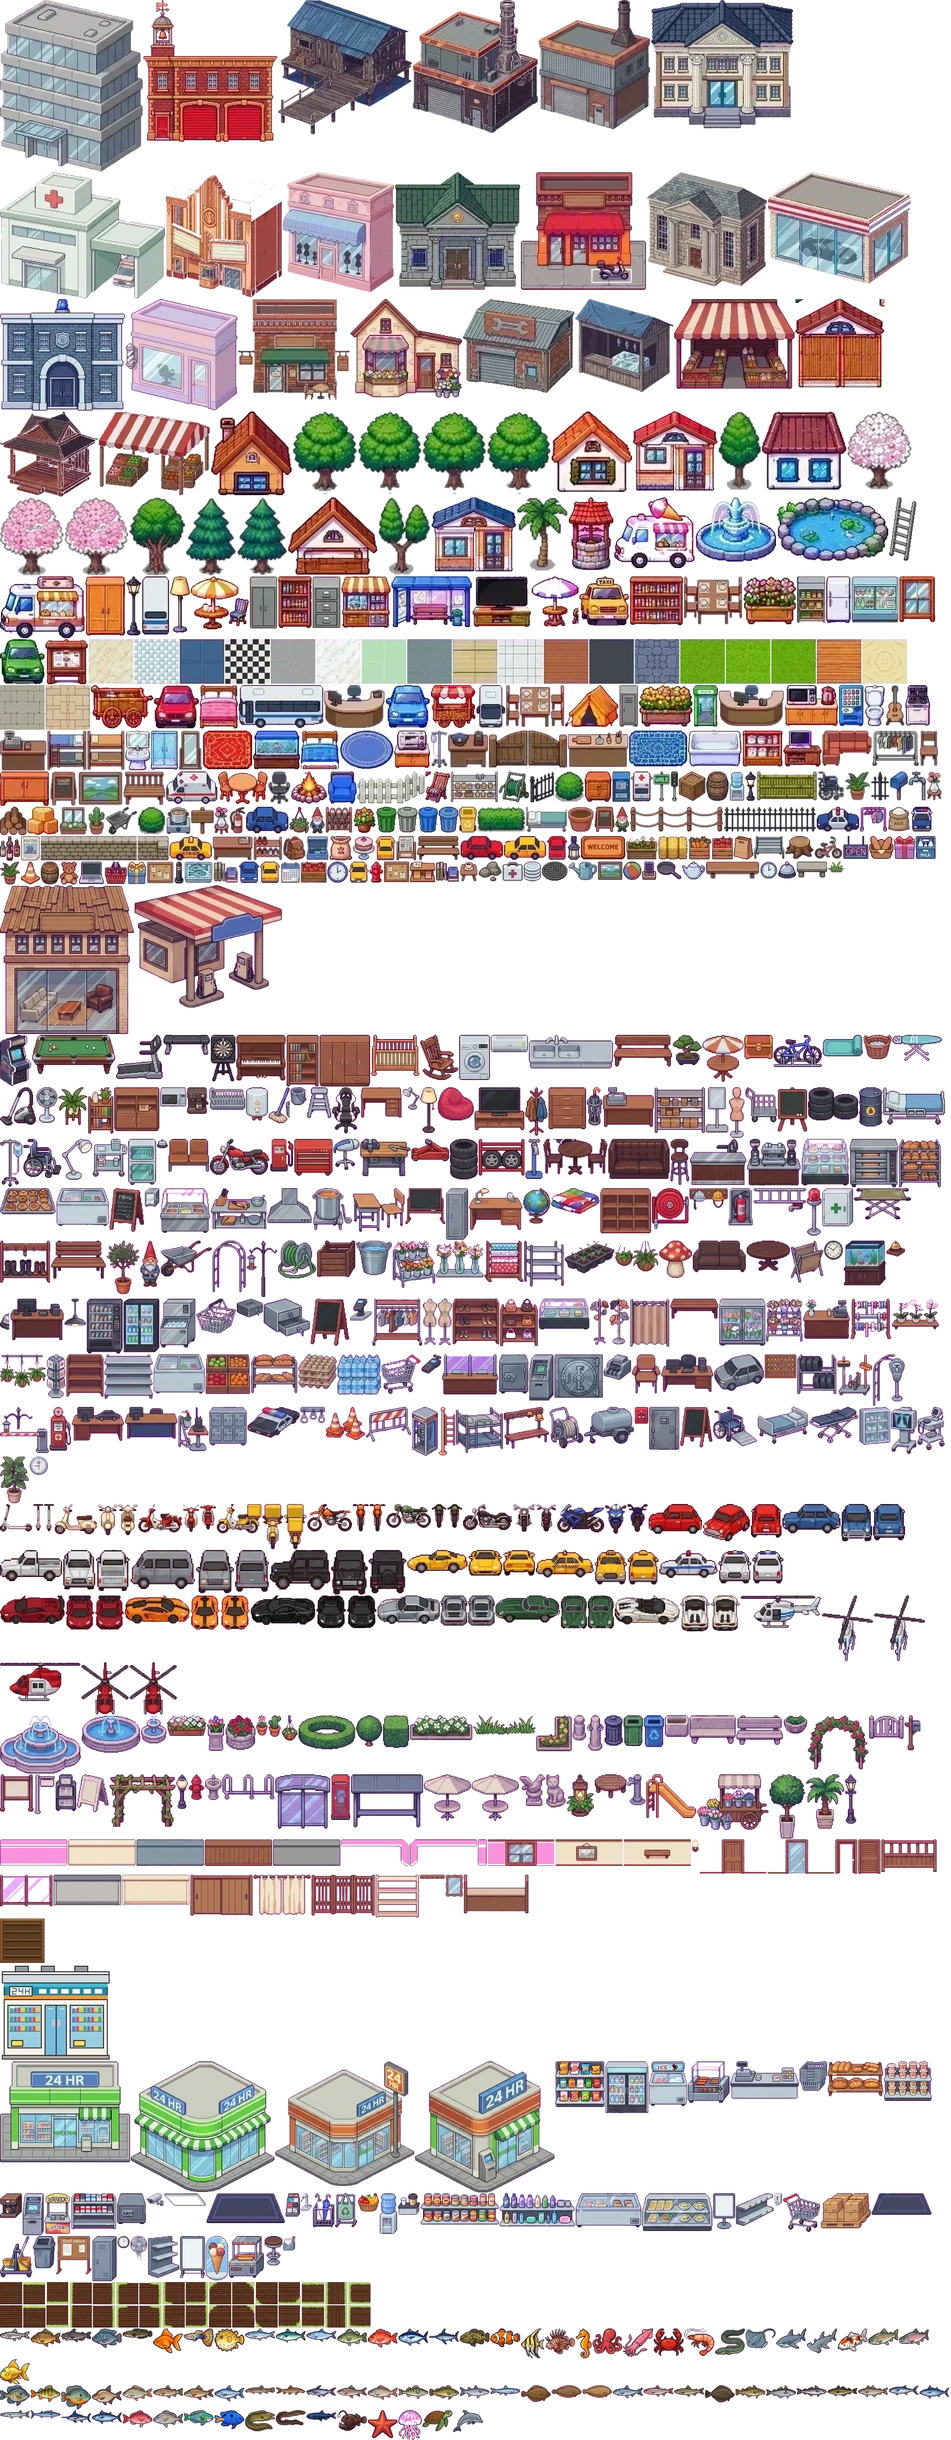
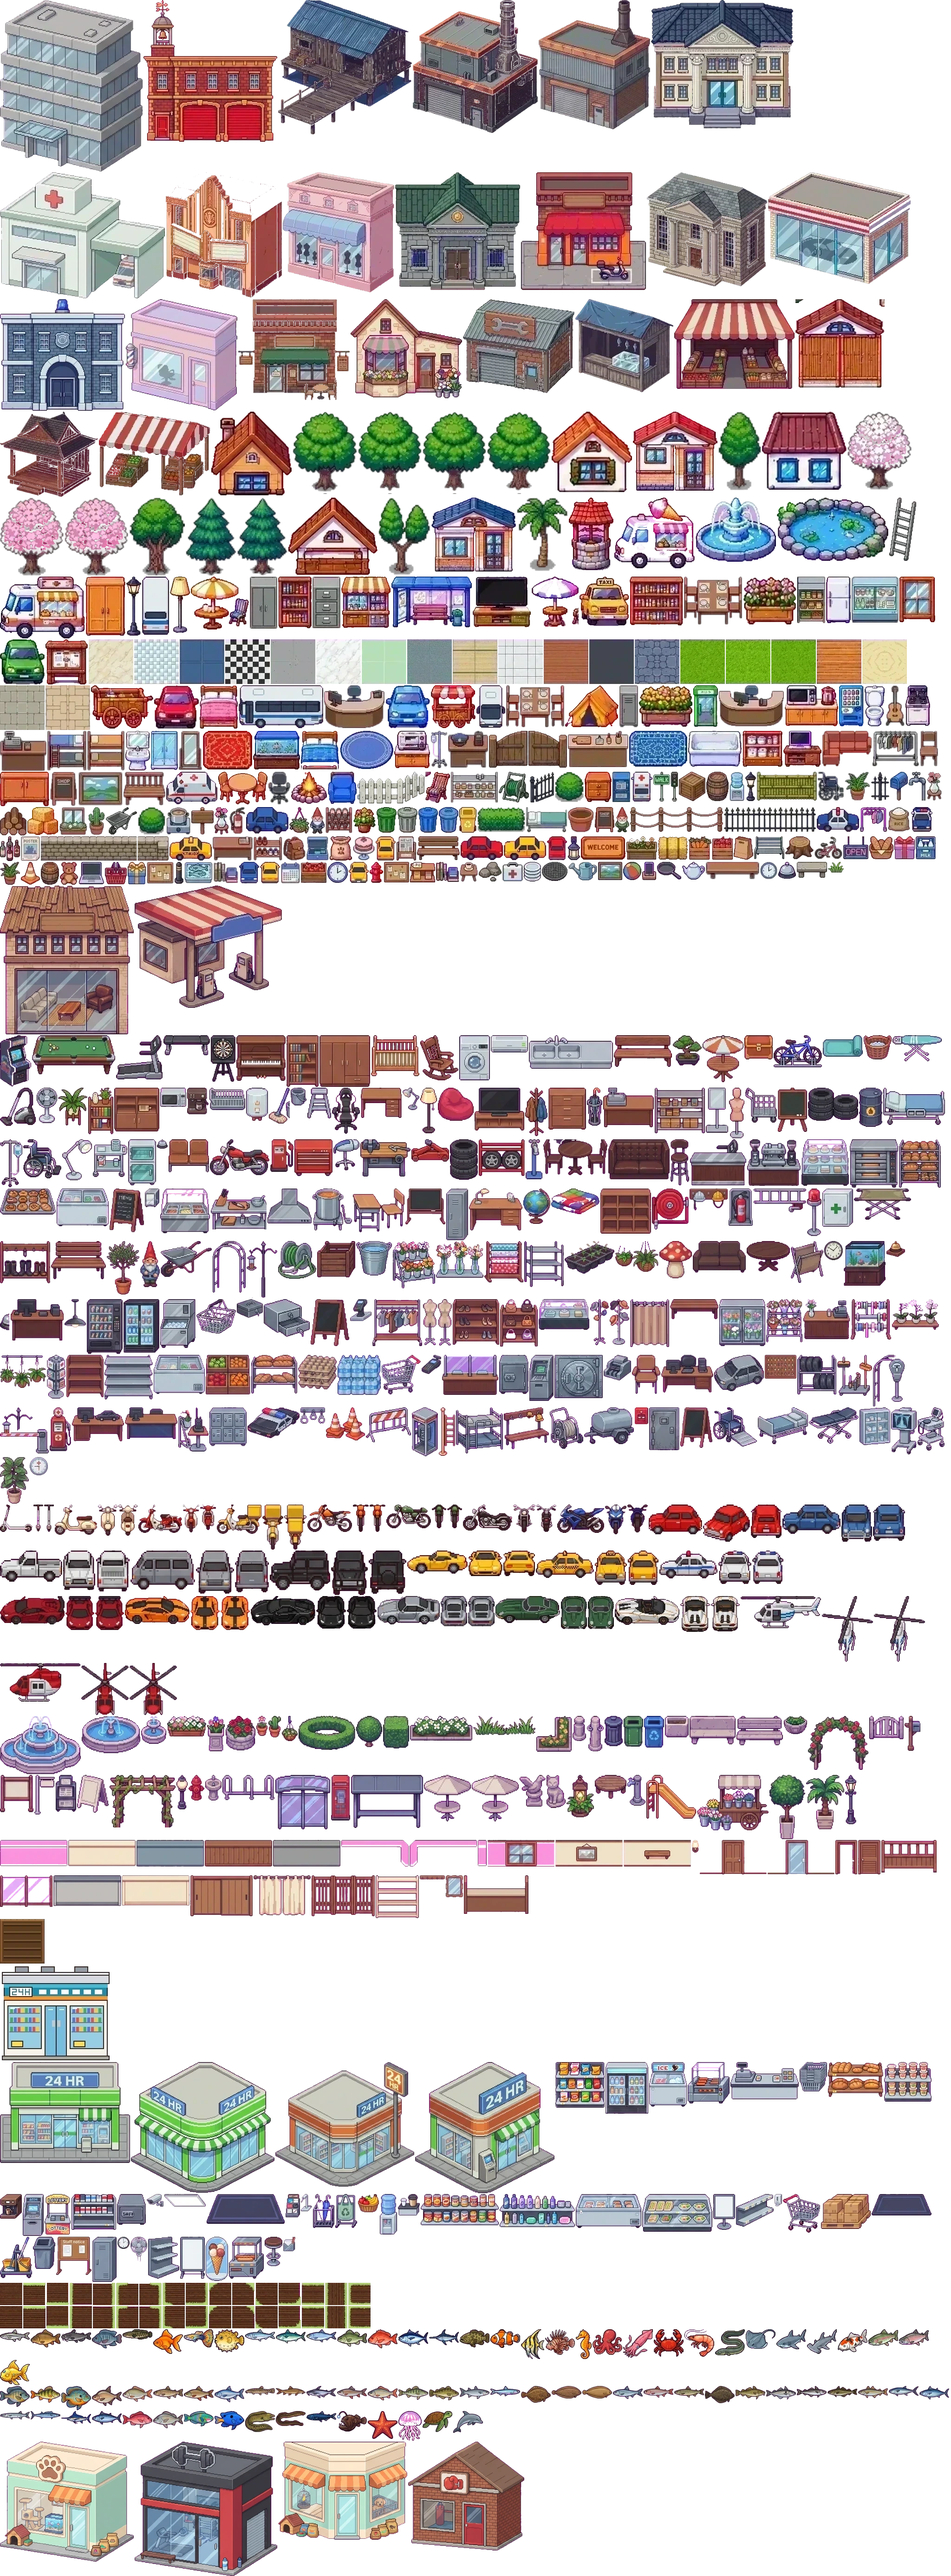
Four new buildings on the map, all closed for renovation: two pet shops (north street, north street west) and two gyms (fitness on the north street east, boxing gym in the south-east park); sprites cut from the new sheet into the atlas, placed after the trees so nothing else moves
Claude-Session: https://claude.ai/code/session_011vTRLcvJmqJKhBboYRSi88

diff --git a/public/game.js b/public/game.js
@@ -2005,6 +2005,8 @@ const needCareer = c => me.career === c ? '' : `<div class="sub" style="color:va
 
 // what's new: a short summary of every update (newest first). Shown once after each update; also under ⚙ → 🆕 อัปเดต
 const NEWS = [
+  { v: '2026-11-15l', d: '15 พ.ย. (รอบ 12)', items: [
+    '🐾 <b>ร้านสัตว์เลี้ยง 2 สาขา</b> (ถนนเหนือ · ถนนเหนือฝั่งตะวันตก) และ 🏋 <b>ฟิตเนส</b> กับ 🥊 <b>โรงยิมมวย</b> เปิดตัวบนแผนที่แล้ว · ตอนนี้ปิดปรับปรุง รอเปิดเร็วๆ นี้' ] },
   { v: '2026-11-15k', d: '15 พ.ย. (รอบ 11)', items: [
     '🎬 <b>หน้าล็อกอินเป็นวิดีโอโปรโมท</b> เปิดเกมมาเจอวิดีโอเมืองขยับได้ทันที (กดปุ่ม 🔊 เพื่อเปิดเสียง) · บนมือถือเต็มจอ กด "เข้าเมืองเลย!" · ถ้าเคยเล่นแล้วกด "เล่นต่อ" ได้ทันที',
     '📦 กล่องล็อกอินเล็กลง ตัดข้อความที่ไม่จำเป็นออก เหลือแค่ช่อง ID/PIN กับปุ่มเข้าเมือง',
@@ -2690,7 +2692,7 @@ function sign(text, x, y, o = {}) {
 }
 const STN = id => id === 'water' ? waterNear : G.stations.find(s => s.id === id);
 let atlas = null, atlasImg = null;
-fetch('assets/atlas.json?v=v4').then(r => r.json()).then(j => { atlas = j; const im = new Image(); im.onload = () => { atlasImg = im; }; im.src = 'assets/atlas.webp?v=v4'; });
+fetch('assets/atlas.json?v=v5').then(r => r.json()).then(j => { atlas = j; const im = new Image(); im.onload = () => { atlasImg = im; }; im.src = 'assets/atlas.webp?v=v5'; });
 function spr(name, cx, by, X, Y, scale = 1) {
   const s = atlas && atlasImg && atlas.sprites[name]; if (!s) return false;
   const w = s[2] / atlas.tile * TS * scale, h = s[3] / atlas.tile * TS * scale;

diff --git a/server/data.js b/server/data.js
@@ -341,6 +341,15 @@ for (let y = 0; y < H; y++) for (let x = 0; x < RX0; x++) if (grid[y][x] === 'T'
   const way = c => '=,ckpswD'.includes(c);
   const nearWay = (x, y, r) => { for (let j = -r; j <= r; j++) for (let k = -r; k <= r; k++) if (way(get(x + k, y + j) || '.')) return true; return false; };
   const propNear = (x, y, r) => PROPS.some(p => Math.hypot(p.x - x, p.y - y) < r) || STATIONS.some(s => s.area === 'town' && Math.hypot(s.x - x, s.y - y) < r + .5);
+  // 0) new shops, all closed for renovation for now: two pet shops and two gyms (added here so nothing older moves)
+  for (const [id, spr, x, front, label, icon] of [['pet1', 'b_pet1', 51, 13, 'ร้านสัตว์เลี้ยง', '🐾'], ['gym1', 'b_gym1', 89, 13, 'ฟิตเนส โรงยิม', '🏋'],
+    ['pet2', 'b_pet2', 12, 13, 'ร้านสัตว์เลี้ยง สาขา 2', '🐶'], ['gym2', 'b_gym2', 60, 45, 'โรงยิมมวย', '🥊']]) {
+    const b = B(id, spr, x, front, { label, icon, deco: true, renov: true });
+    for (let j = b.y; j < b.y + b.h; j++) for (let i = b.x; i < b.x + b.w; i++) { dropTree(i, j); if (get(i, j) === '.') set(i, j, 'B'); }
+    for (let k = PROPS.length - 1; k >= 0; k--) { const q = PROPS[k]; if (q.x >= b.x && q.x < b.x + b.w && q.y - .5 >= b.y && q.y - .5 < b.y + b.h + 1) PROPS.splice(k, 1); }
+    // a paved doorstep from the door down to the street
+    const cx = Math.floor(b.x + b.w / 2); for (let y = b.y + b.h; y < front + 1; y++) for (const xx of [cx - 1, cx]) if ('.m'.includes(get(xx, y))) set(xx, y, 'c');
+  }
   // 1) back gardens: every shop or service whose back faces open grass gets a 3-row garden behind it: a white picket
   //    fence along the far edge, a hedge against the back wall, bushes in the corners and a flower bed in the middle
   for (const b of BUILDINGS) {

diff --git a/tools/add_buildings.py b/tools/add_buildings.py
@@ -19,7 +19,8 @@ ITEMS = {'b_rider': ('a', 0, 0, 5.6), 'b_toolshop': ('a', 1, 0, 5), 'b_market': 
          'b_kitchen': ('e', 0, 0, 5), 'b_salon': ('e', 1, 0, 5), 'b_hospital2': ('e', 0, 1, 7.4), 'b_tower': ('e', 1, 1, 6.4),
          'b_rider2': ('f', 0, 0, 5.6), 'b_market2': ('f', 1, 0, 5.4), 'b_flower2': ('f', 0, 1, 5),
          'b_police2': ('g', 0, 0, 5.6), 'b_fire2': ('g', 1, 0, 6),
-         'b_furnshop': ('h', 0, 0, 6), 'b_gas': ('h', 1, 0, 6.6)}
+         'b_furnshop': ('h', 0, 0, 6), 'b_gas': ('h', 1, 0, 6.6),
+         'b_pet1': ('i', 0, 0, 6.0), 'b_gym1': ('i', 1, 0, 6.4), 'b_pet2': ('i', 0, 1, 5.8), 'b_gym2': ('i', 1, 1, 5.2)}
 SHEET = lambda k: os.path.join(ROOT, 'tools', 'sheets', f'pixel_buildings_{k}.jpg')
 
 def cut(sheet, col, row):
